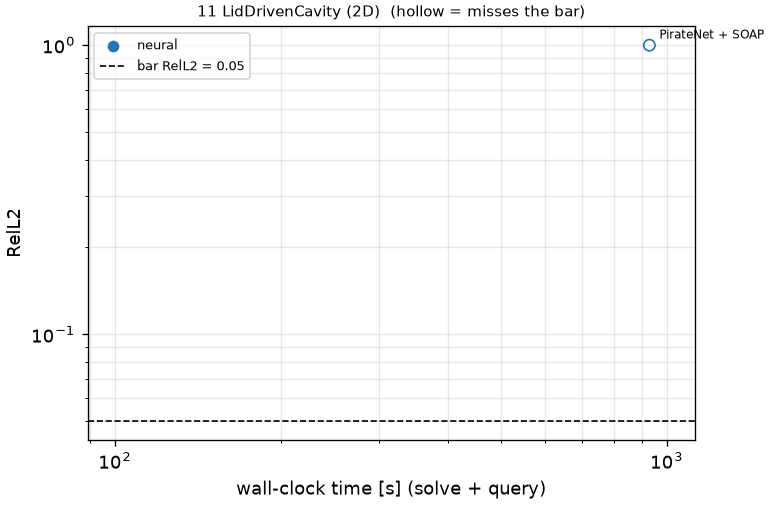
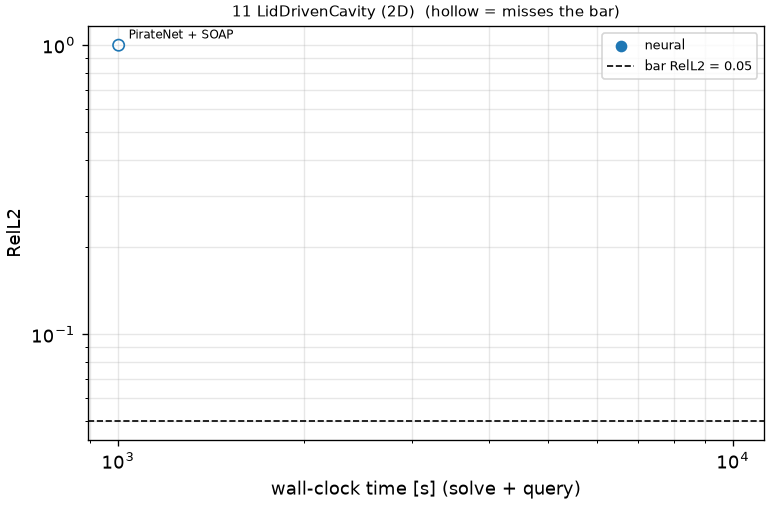
Submission 1 (FP32) results, set 3: tracks 10-13

diff --git a/README.md b/README.md
@@ -170,10 +170,10 @@ its tracker: RelL2 vs wall-clock time, one point per submission, bar dashed.
 | 07 HighContrastDiffusion (2D) | [PirateNet + SOAP](tracks/track07_2D_HighContrastDiffusion/submissions/submission_PR0001/solve.py) | 1001 | 1.36e-01 (≤ 0.005) | 2.03e-01 (≤ 0.01) | no |
 | 08 Helmholtz (2D) | *on hold* | | | | |
 | 09 AdvectionDiffusion (2D) | [PirateNet + SOAP](tracks/track09_2D_AdvectionDiffusion/submissions/submission_PR0001/solve.py) | 300.7 | 9.44e-01 (≤ 0.005) | 7.24e-01 (≤ 0.01) | no |
-| 10 Kovasznay (2D) | — | | | | |
-| 11 LidDrivenCavity (2D) | — | | | | |
-| 12 Burgers (2D + Time) | — | | | | |
-| 13 DecayingEddies (2D + Time) | — | | | | |
+| 10 Kovasznay (2D) | [PirateNet + SOAP](tracks/track10_2D_Kovasznay/submissions/submission_PR0001/solve.py) | 616.9 | 1.47e-04 (≤ 0.005) | 1.65e-04 (≤ 0.01) | yes |
+| 11 LidDrivenCavity (2D) | [PirateNet + SOAP](tracks/track11_2D_LidDrivenCavity/submissions/submission_PR0001/solve.py) | 1001 | 1.00e+00 (≤ 0.05) | 1.00e+00 (≤ 0.1) | no |
+| 12 Burgers (2D + Time) | [PirateNet + SOAP](tracks/track12_2DT_Burgers/submissions/submission_PR0001/solve.py) | 1001 | 7.35e-04 (≤ 0.005) | 7.92e-03 (≤ 0.01) | yes |
+| 13 DecayingEddies (2D + Time) | [PirateNet + SOAP](tracks/track13_2DT_DecayingEddies/submissions/submission_PR0001/solve.py) | 1000 | 2.58e-03 (≤ 0.005) | 2.55e-03 (≤ 0.01) | yes |
 | 14 CylinderFlow (2D + Time) | *TODO* | | | | |
 | 15 GreyScott (2D + Time) | — | | | | |
 | 16 GinzburgLandau (2D + Time) | — | | | | |

diff --git a/tracks/track10_2D_Kovasznay/README.md b/tracks/track10_2D_Kovasznay/README.md
@@ -32,6 +32,7 @@ Current record: **0.1224 s** (record #0: classical baseline, maintainers, 2026-1
 
 | date | author | name | kind | time [s] | RelL2 | RelL∞ | passes | hardware |
 |---|---|---|---|---|---|---|---|---|
+| 2026-10-30 | maintainers | PirateNet + SOAP | neural | 616.9 | 1.47e-04 | 1.65e-04 | yes | NVIDIA H100 80GB HBM3 (JAX) |
 | 2026-10-30 | maintainers | record #0: classical baseline | classical | 0.1224 | 1.43e-07 | 1.80e-07 | yes | NVIDIA H100 80GB HBM3 |
 
 ![accuracy_vs_time](figures/accuracy_vs_time.png)

diff --git a/tracks/track13_2DT_DecayingEddies/README.md b/tracks/track13_2DT_DecayingEddies/README.md
@@ -31,6 +31,7 @@ Current record: **0.1506 s** (record #0: classical baseline, maintainers, 2026-1
 | date | author | name | kind | time [s] | RelL2 | RelL∞ | passes | hardware |
 |---|---|---|---|---|---|---|---|---|
 | 2026-10-30 | maintainers | record #0: classical baseline | classical | 0.1506 | 1.93e-15 | 3.75e-15 | yes | NVIDIA H100 80GB HBM3 |
+| 2026-10-31 | maintainers | PirateNet + SOAP | neural | 1000 | 2.58e-03 | 2.55e-03 | yes | NVIDIA H100 80GB HBM3 (JAX) |
 
 ![accuracy_vs_time](figures/accuracy_vs_time.png)
 

diff --git a/tracks/track12_2DT_Burgers/README.md b/tracks/track12_2DT_Burgers/README.md
@@ -32,6 +32,7 @@ Current record: **1.06 s** (record #0: classical baseline, maintainers, 2026-10-
 | date | author | name | kind | time [s] | RelL2 | RelL∞ | passes | hardware |
 |---|---|---|---|---|---|---|---|---|
 | 2026-10-30 | maintainers | record #0: classical baseline | classical | 1.06 | 9.70e-06 | 2.63e-04 | yes | NVIDIA H100 80GB HBM3 |
+| 2026-10-31 | maintainers | PirateNet + SOAP | neural | 1001 | 7.35e-04 | 7.92e-03 | yes | NVIDIA H100 80GB HBM3 (JAX) |
 
 ![accuracy_vs_time](figures/accuracy_vs_time.png)
 

diff --git a/tracks/track11_2D_LidDrivenCavity/README.md b/tracks/track11_2D_LidDrivenCavity/README.md
@@ -24,4 +24,10 @@ published data (jaxpi)
 
 ## Records
 
-No records yet.
+Current record: **1001 s** (PirateNet + SOAP, maintainers, 2026-10-31, NVIDIA H100 80GB HBM3 (JAX)).
+
+| date | author | name | kind | time [s] | RelL2 | RelL∞ | passes | hardware |
+|---|---|---|---|---|---|---|---|---|
+| 2026-10-31 | maintainers | PirateNet + SOAP | neural | 1001 | 1.00e+00 | 1.00e+00 | no | NVIDIA H100 80GB HBM3 (JAX) |
+
+![accuracy_vs_time](figures/accuracy_vs_time.png)
